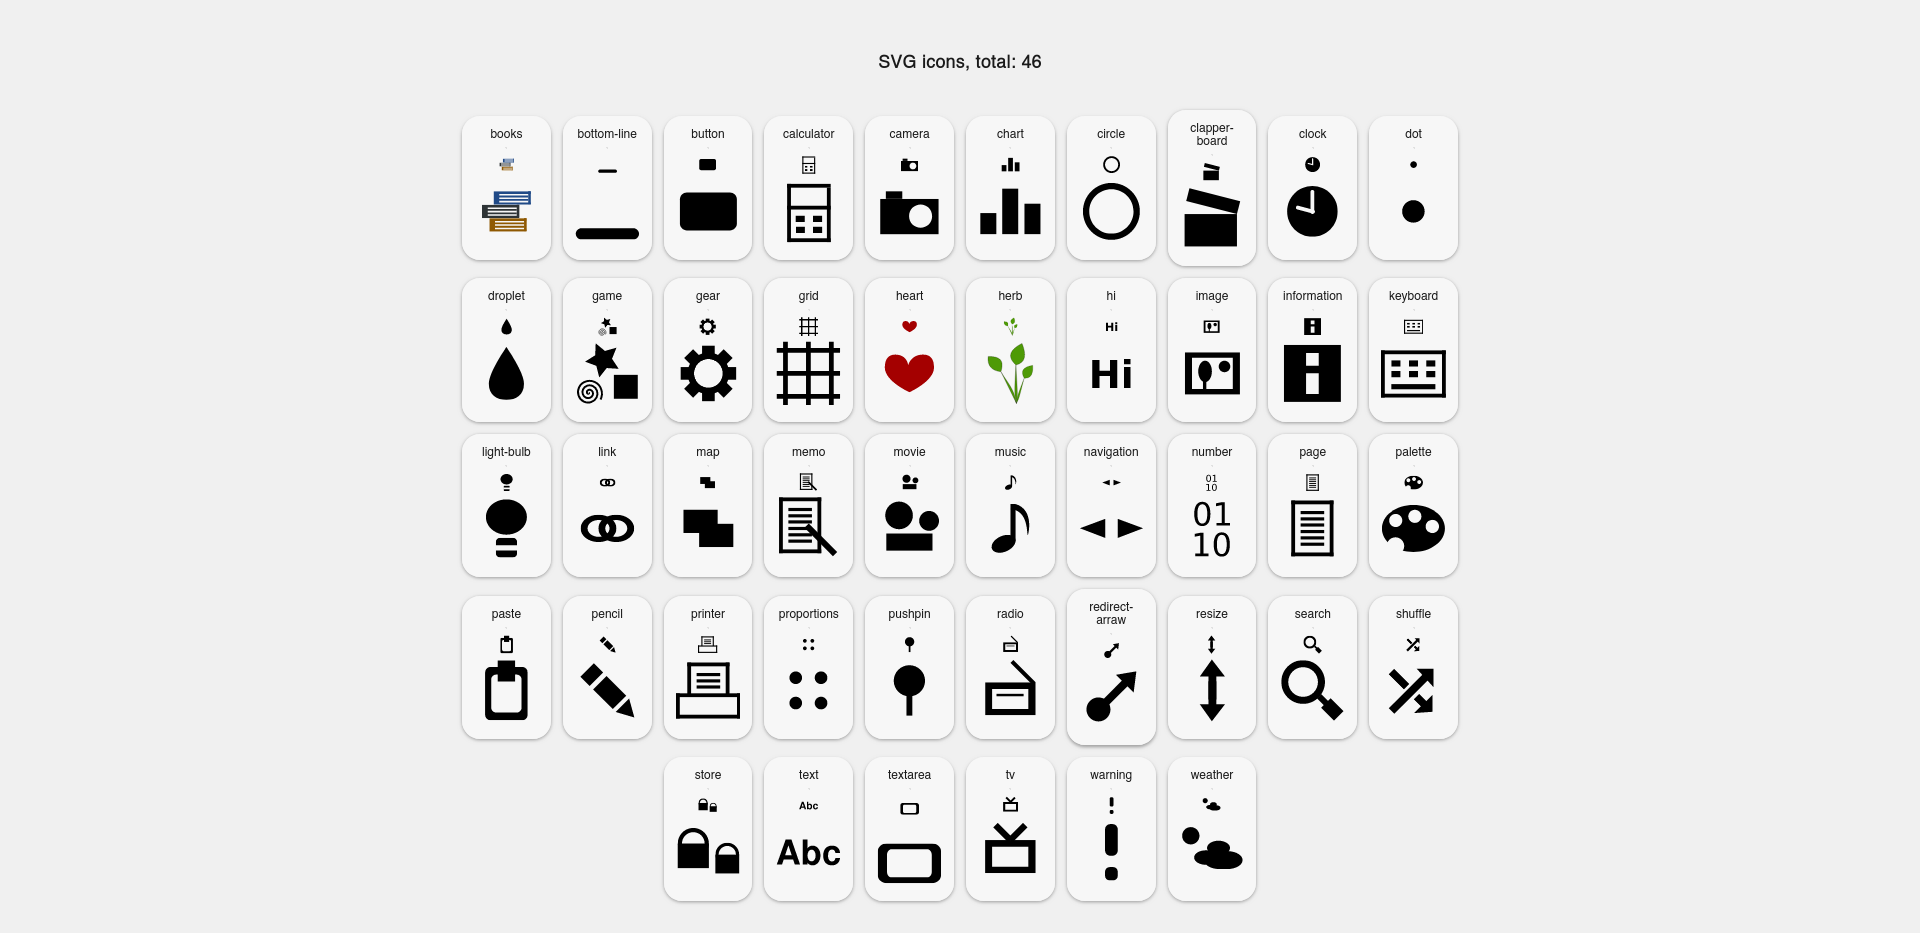
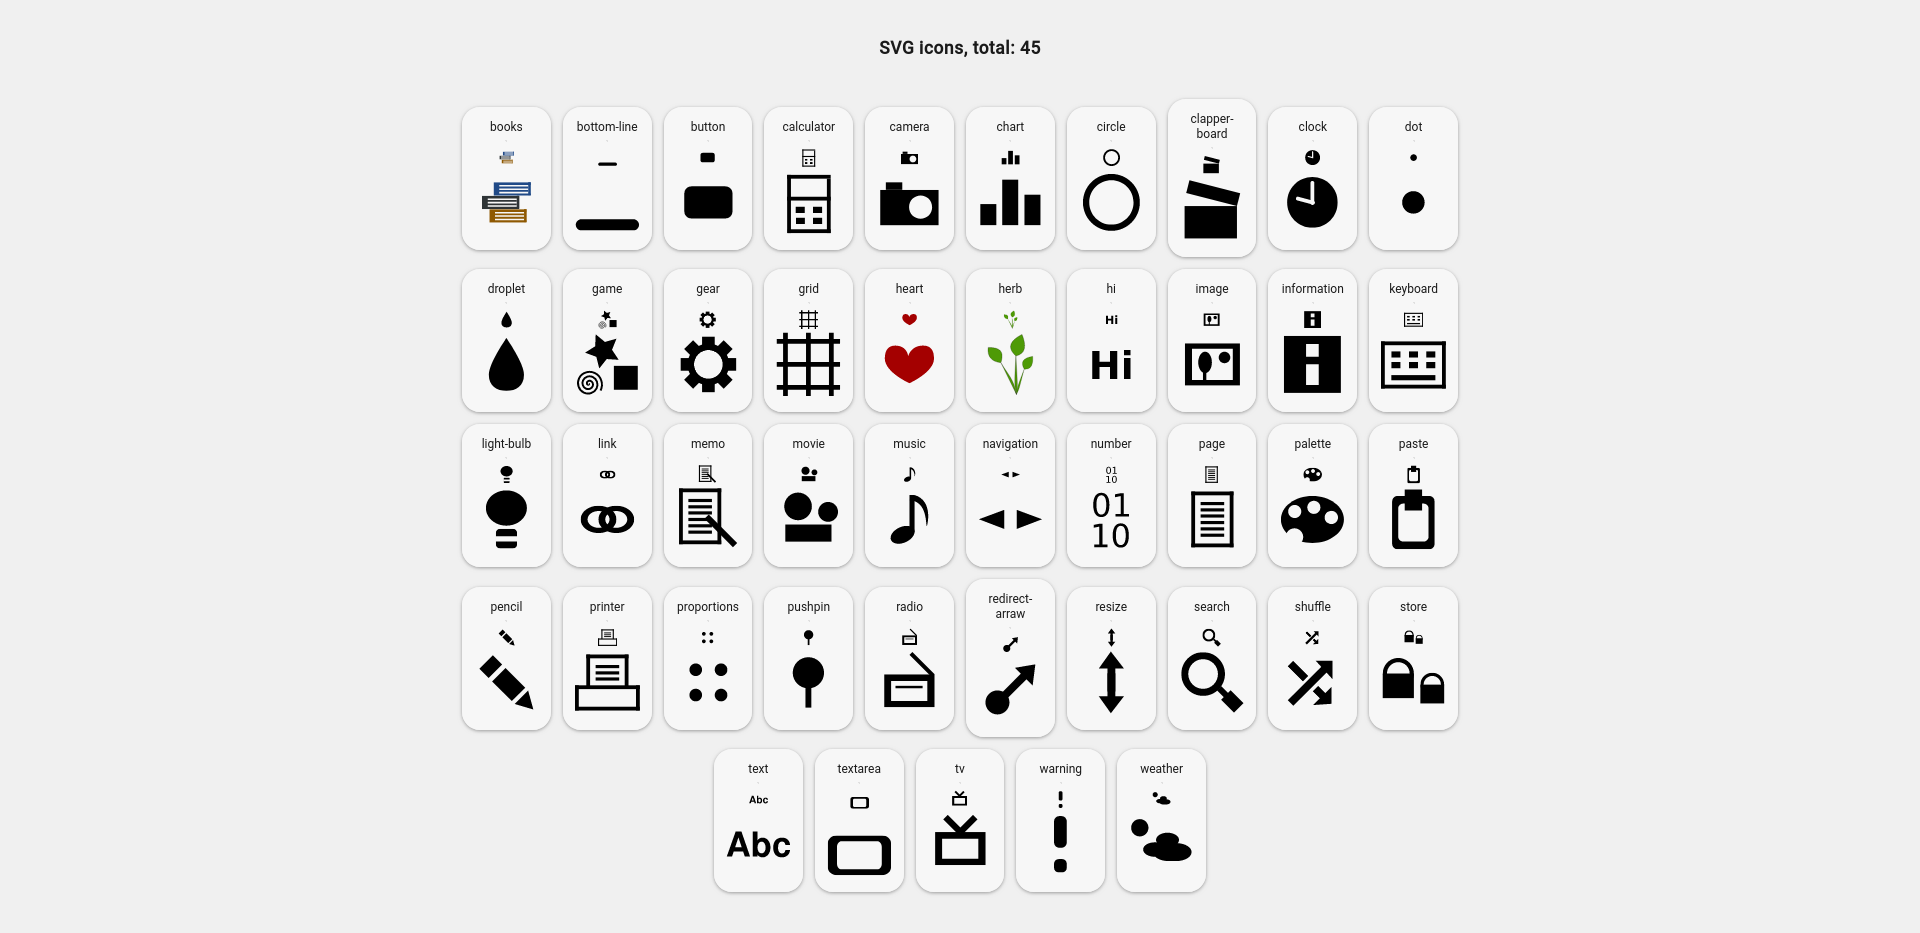
update

Changed region(s): [[0.25, 0.1243, 0.75, 0.9636], [0.4375, 0.0311, 0.5625, 0.0932]]

diff --git a/icons-page.html b/icons-page.html
@@ -430,20 +430,6 @@
 <!-- post -->
 <div class="bgList borderList post" id="">
 
-<div class="pre paddingList">Map <a class="brand" href="./icons-data/map.svg">./icons-data/map.svg</a><br><a href="./icons-data/map.svg"><img class="img border" src="./icons-data/map.svg"></a></div>
-
-<div class="postFooter small break2">
-<div class="tagList tLeft left"></div>
-<div class="tagList tRight right">id</div>
-</div>
-
-</div>
-<!-- // post -->
-
-
-<!-- post -->
-<div class="bgList borderList post" id="">
-
 <div class="pre paddingList">Memo <a class="brand" href="./icons-data/memo.svg">./icons-data/memo.svg</a><br><a href="./icons-data/memo.svg"><img class="img border" src="./icons-data/memo.svg"></a></div>
 
 <div class="postFooter small break2">
@@ -1037,13 +1023,6 @@ var blogJsonVar = [
         "text": "Pushpin ",
         "url": ".\/icons-data\/pushpin.svg",
         "tag": " #pushpin",
-        "time": "id"
-    },
-    {
-        "id": "24ef14cc39784606cfc1039ce0b1f0ac",
-        "text": "Map ",
-        "url": ".\/icons-data\/map.svg",
-        "tag": " #map",
         "time": "id"
     },
     {

diff --git a/install.html b/install.html
@@ -124,10 +124,10 @@ install, install website, PWA, WebApp, app, page, main,
 
 
 
-<button class="post padding2 margin2 borderList" onclick="startInstallPWA()"><span class="bold">Start Install (10,85 MB)</span>
+<button class="post padding2 margin2 borderList" onclick="startInstallPWA()"><span class="bold">Start Install (10,84 MB)</span>
 <span class="small block padding2">registration sw.js (service worker) and adding files to the cache. (1)</span></button>
 <div id="startInstallStatus" class="post padding2 margin2 borderList"></div>
-<button class="add-button post padding2 margin2 borderList bold green" onclick="startInstallPWA()">Install (10,85 MB) (2)</button>
+<button class="add-button post padding2 margin2 borderList bold green" onclick="startInstallPWA()">Install (10,84 MB) (2)</button>
 
 
 

diff --git a/data/iconsJsonVar.js b/data/iconsJsonVar.js
@@ -430,16 +430,6 @@ var iconsJsonVar =
 `,
 },
 {
-"text": `map`,
-"text2": `<svg width="512" height="512" version="1.1" viewBox="0 0 135.47 135.47" xmlns="http://www.w3.org/2000/svg">
- <g transform="translate(3.8767 9.5797)" stroke-width="7.4496">
-  <rect x="11.773" y="19.198" width="71.439" height="48.537"/>
-  <rect x="44.504" y="48.576" width="71.439" height="48.537"/>
- </g>
-</svg>
-`,
-},
-{
 "text": `memo`,
 "text2": `<svg width="512" height="512" version="1.1" viewBox="0 0 135.47 135.47" xmlns="http://www.w3.org/2000/svg">
  <g transform="translate(-7.9023 -6.4352)">

diff --git a/projects/game-dice-9/script.js b/projects/game-dice-9/script.js
@@ -1,4 +1,4 @@
-// v.1.2.4
+// v.1.2.5
 
 
 
@@ -33,8 +33,9 @@ var pointsLimit = 15;
 
 document.getElementById("panel").innerHTML = `
 <div>
-<button class="gDbtn light border"  id="myBtn">roll</button>
-<button class="gDbtn light border op" onclick="reload()">reload</button>
+<button class="gDbtn light border borderRadius2" id="myBtn">roll</button>
+<div class="padding2"></div>
+<button class="gDbtn light border op borderRadius2" onclick="reload()">reload</button>
 <!--<button class="gDbtn light border op" onclick="refresh()">refresh</button>-->
 </div>
 `;

diff --git a/projects/insert-icon-17/script.js b/projects/insert-icon-17/script.js
@@ -227,8 +227,8 @@ let icons2 = [
 {"t":"love", "t2":"❤", "t3":"heart"},
 {"t":"fav", "t2":"❤", "t3":"heart"},
 {"t":"magazine", "t2":"📰"},
-{"t":"map", "t2":"📍"},
-{"t":"sitemap", "t2":"📍", "t3":"map"},
+{"t":"map", "t2":"📍", "t3":"pushpin"},
+{"t":"sitemap", "t2":"📍", "t3":"pushpin"},
 {"t":"mammoth ", "t2":"🦣"},
 {"t":"mastodon", "t2":"🦣"},
 {"t":"mail", "t2":"📧"},

diff --git a/sw.js b/sw.js
@@ -370,7 +370,6 @@ var fileListArr = ["/404.html",
 "/icons-data/keyboard.svg",
 "/icons-data/light-bulb.svg",
 "/icons-data/link.svg",
-"/icons-data/map.svg",
 "/icons-data/memo.svg",
 "/icons-data/movie.svg",
 "/icons-data/music.svg",
